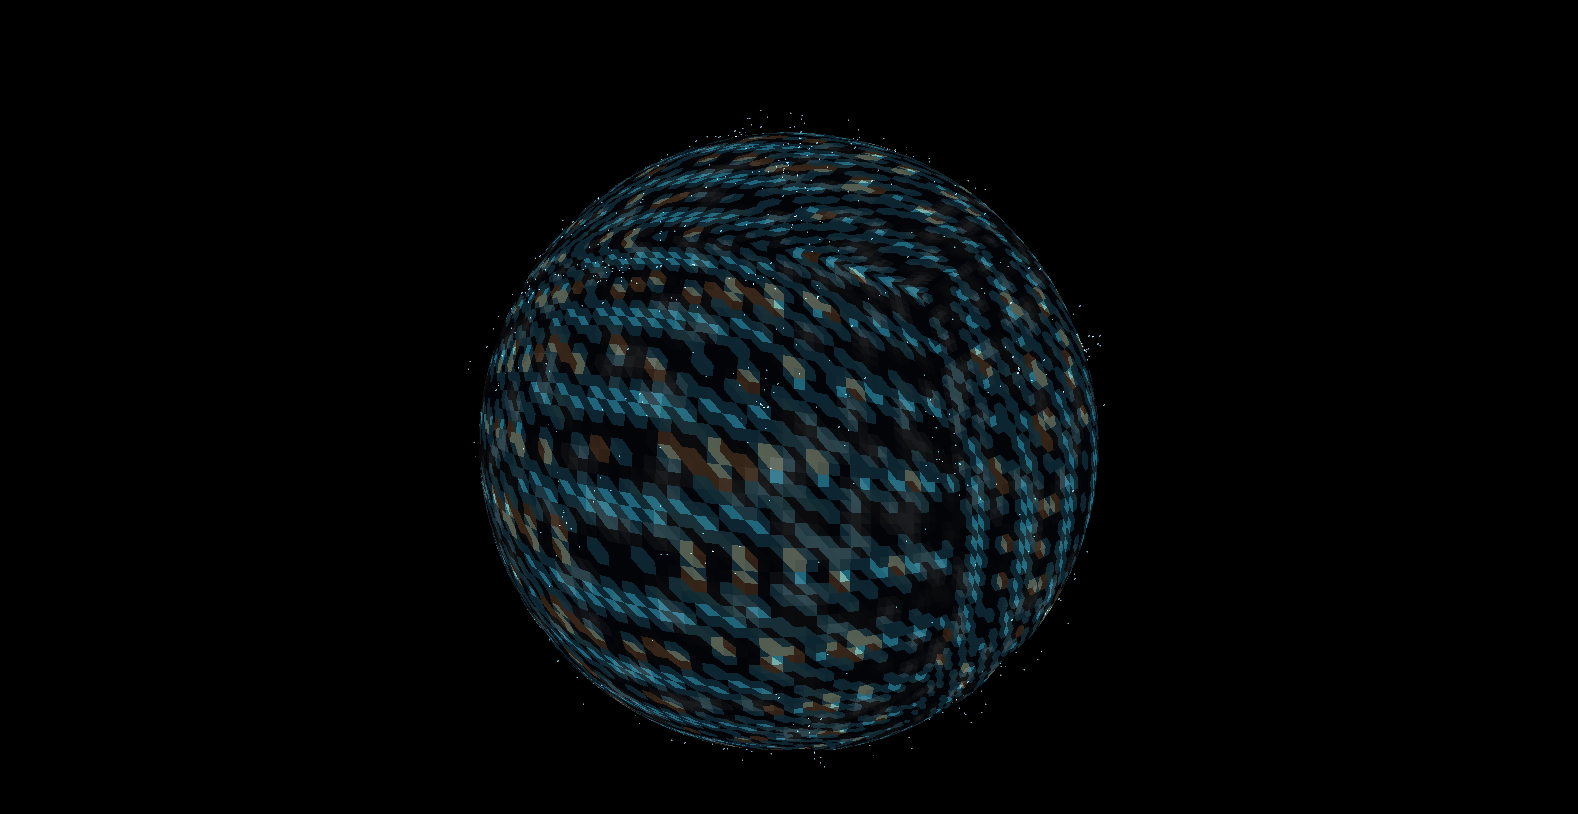
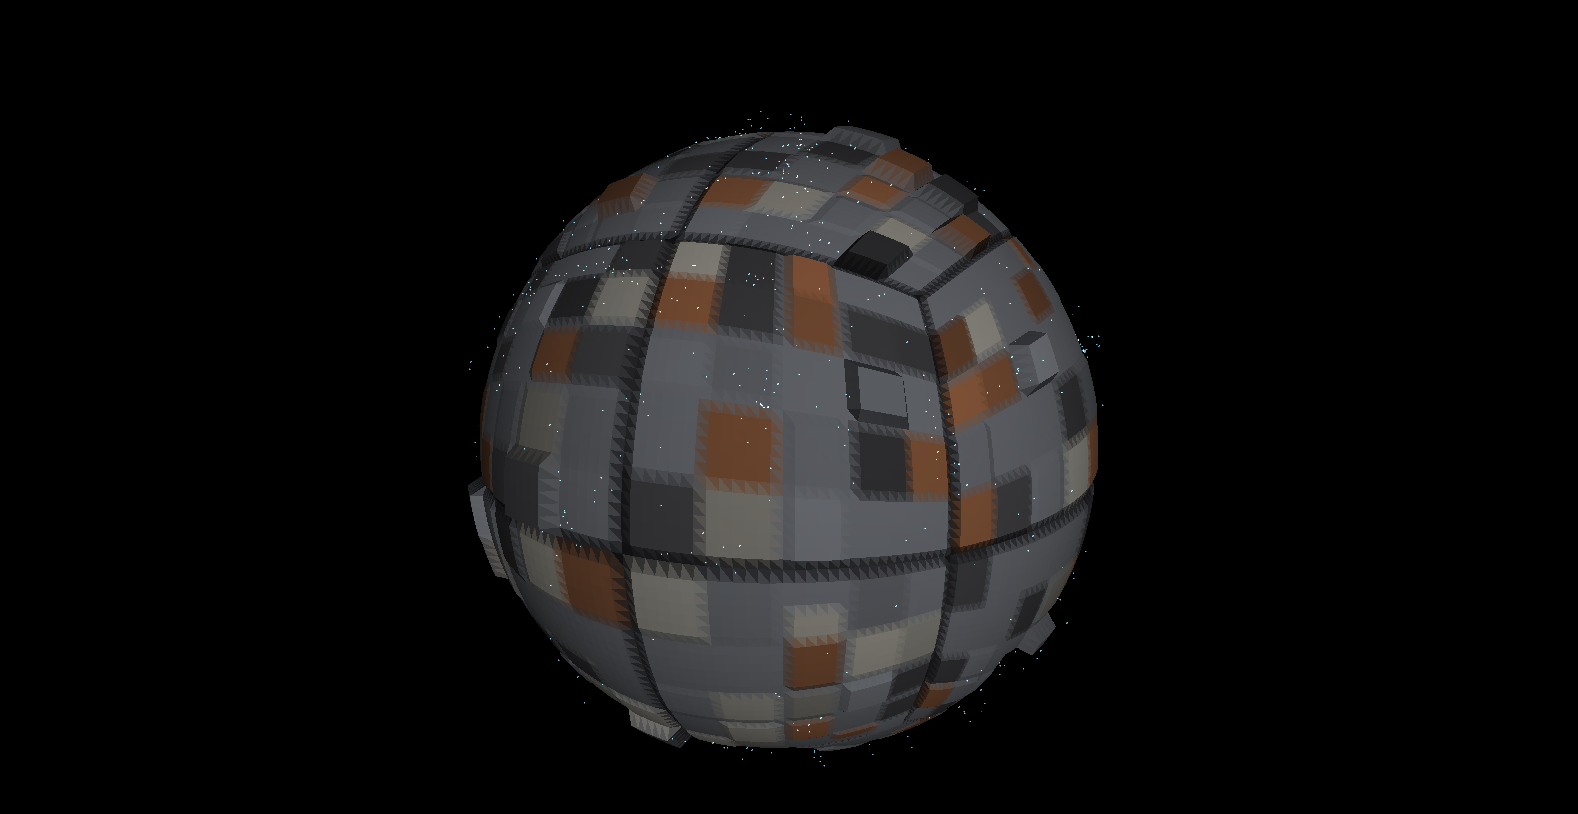
Dyson outside: industrial megastructure (sectors, trenches, machinery blocks, towers, pipe runs, steel/iron/rust), lit from outside, camera stays above the machinery

Changed region(s): [[0.2795, 0.1536, 0.7142, 0.9214]]

diff --git a/src/gen/PlanetTerrain.cs b/src/gen/PlanetTerrain.cs
@@ -626,6 +626,30 @@ namespace DnaAnd.Gen
             return Radius;
         }
 
+        /// <summary>How tall the hull's machinery stands (km above the bare hull) at a unit direction: the same shapes the hull is built from.</summary>
+        public double HullHeightAt(double x, double y, double z)
+        {
+            double ax2 = Math.Abs(x), ay2 = Math.Abs(y), az2 = Math.Abs(z), pu, pv;
+            if (ax2 >= ay2 && ax2 >= az2) { pu = y / ax2; pv = z / ax2; } else if (ay2 >= az2) { pu = x / ay2; pv = z / ay2; } else { pu = x / az2; pv = y / az2; }
+            long face = ax2 >= ay2 && ax2 >= az2 ? (x > 0 ? 1 : 2) : ay2 >= az2 ? (y > 0 ? 3 : 4) : (z > 0 ? 5 : 6);
+            double h = 0, bn = 5;
+            for (int sc = 0; sc < 6; sc++, bn *= 6)
+            {
+                double cu = pu * bn, cv = pv * bn;
+                long iu = (long)Math.Floor(cu), iv = (long)Math.Floor(cv);
+                double fu = cu - iu, fv = cv - iv, edge = Math.Min(Math.Min(fu, 1 - fu), Math.Min(fv, 1 - fv));
+                double width = Radius * 2 / bn;
+                float hsh = (float)Hash(iu, iv, face * 16 + sc, _seed + 8400u);
+                if (sc == 0 && edge < 0.015) { h -= width * 0.02; break; }
+                if (edge < 0.06 || hsh < 0.35) continue;
+                double tall = hsh * hsh * width * 0.035;
+                if (hsh > 0.93) tall *= 3;
+                if (hsh > 0.8 && hsh < 0.9) { double pf = Math.Abs(Math.Sin(fu * Math.PI * 6)); tall = pf > 0.6 ? width * 0.012 : 0; }
+                h += tall;
+            }
+            return h;
+        }
+
         /// <summary>Whether this part of a shell has been built (rings, part-built shells and mirror caps have gaps).</summary>
         private bool Built(double x, double y, double z, int level, double angle)
         {
@@ -663,27 +687,41 @@ namespace DnaAnd.Gen
                     {
                         // hull plates: a grid of panels with seams, some lit by docks and windows
                         h = 0; gl = HullGlow; al = 1;
-                        // high-tech armour: hexagon panels laid on the faces of a cube (no globe lines, no pinched poles),
-                        // each panel its own kind (dark collector glass, gunmetal, light armour), glowing seams, lit vents and docks
+                        // industrial megastructure: real built shapes, not a painted skin. Square sectors split by deep
+                        // trenches, filled with blocks of machinery at many sizes (each one taller the bigger it is), long
+                        // pipe runs and radiator ridges; steel, dark iron and rust, with only small warm work lights
                         double ax2 = Math.Abs(x), ay2 = Math.Abs(y), az2 = Math.Abs(z), pu, pv;
                         if (ax2 >= ay2 && ax2 >= az2) { pu = y / ax2; pv = z / ax2; } else if (ay2 >= az2) { pu = x / ay2; pv = z / ay2; } else { pu = x / az2; pv = y / az2; }
                         long face = ax2 >= ay2 && ax2 >= az2 ? (x > 0 ? 1 : 2) : ay2 >= az2 ? (y > 0 ? 3 : 4) : (z > 0 ? 5 : 6);
-                        long hi, hj; double he, hcen;
-                        Hex(pu * 14, pv * 14, out hi, out hj, out he, out hcen);                 // great panels
-                        long fi2, fj2; double fe, fc;
-                        Hex(pu * 420, pv * 420, out fi2, out fj2, out fe, out fc);               // plates inside each panel
-                        float cell = (float)Hash(hi, hj, face, _seed + 8200u), sub = (float)Hash(fi2, fj2, face, _seed + 8300u);
-                        int kind = cell < 0.55f ? 0 : cell < 0.85f ? 1 : 2;
-                        if (kind == 0) { r = 0.05f; g = 0.08f; bl = 0.16f; }              // collector glass, nearly black blue
-                        else if (kind == 1) { r = 0.2f; g = 0.21f; bl = 0.24f; }          // gunmetal
-                        else { r = 0.5f; g = 0.52f; bl = 0.56f; }                         // light armour
-                        float tone = 0.85f + 0.3f * sub; r *= tone; g *= tone; bl *= tone; gl = 0.2f;
-                        bool near = _makeLevel >= 10;
-                        if (near && fe < 0.06) { r *= 0.55f; g *= 0.55f; bl *= 0.55f; }                              // plate lines, up close
-                        double seamW = near ? 0.035 : 0.09;                                                         // seams drawn wider from far away
-                        if (he < seamW) { r = 0.25f; g = 0.85f; bl = 1f; gl = 0.9f; }                               // glowing seams between panels
-                        if (kind == 1 && hcen < 0.12) { r = 1f; g = 0.55f; bl = 0.15f; gl = 0.95f; }                 // a glowing vent at each gunmetal panel's heart
-                        if (near && sub > 0.985) { r = 1f; g = 0.85f; bl = 0.5f; gl = 0.95f; }                       // lit windows, ports and docks
+                        h = 0; gl = 0.12f;                                       // faint light from the rest of the galaxy, so the dark side still shows its shapes
+                        float tone = 1f; int metal = 0; bool trench = false;
+                        int scales = Math.Min(6, 1 + _makeLevel / 3);              // finer machinery appears as you come closer
+                        double bn = 5;
+                        for (int sc = 0; sc < scales; sc++, bn *= 6)
+                        {
+                            double cu = pu * bn, cv = pv * bn;
+                            long iu = (long)Math.Floor(cu), iv = (long)Math.Floor(cv);
+                            double fu = cu - iu, fv = cv - iv, edge = Math.Min(Math.Min(fu, 1 - fu), Math.Min(fv, 1 - fv));
+                            double width = Radius * 2 / bn;                          // km across one block at this size
+                            float hsh = (float)Hash(iu, iv, face * 16 + sc, _seed + 8400u);
+                            if (sc == 0 && edge < 0.015) { h -= width * 0.02; trench = true; break; }       // the deep trenches between sectors
+                            if (edge < 0.06) continue;                                                    // a street: no block here at this size
+                            if (hsh < 0.35) continue;                                                     // open deck
+                            double tall = hsh * hsh * width * 0.035;
+                            if (hsh > 0.93) tall *= 3;                                                    // a tower
+                            bool pipe = hsh > 0.8 && hsh < 0.9;                                           // pipe runs: long ridges along one side
+                            if (pipe) { double pf = Math.Abs(Math.Sin(fu * Math.PI * 6)); tall = pf > 0.6 ? width * 0.012 : 0; }
+                            h += tall;
+                            if (tall > 0) { metal = (int)(hsh * 997) % 4; tone = 0.8f + 0.4f * (float)Hash(iu, iv, sc, _seed + 8500u); }
+                        }
+                        if (metal == 0) { r = 0.36f; g = 0.37f; bl = 0.39f; }        // steel
+                        else if (metal == 1) { r = 0.2f; g = 0.2f; bl = 0.21f; }     // dark iron
+                        else if (metal == 2) { r = 0.42f; g = 0.27f; bl = 0.18f; }   // rust
+                        else { r = 0.5f; g = 0.49f; bl = 0.46f; }                    // weathered plate
+                        r *= tone; g *= tone; bl *= tone;
+                        if (trench) { r = 0.08f; g = 0.08f; bl = 0.09f; }
+                        // small warm work lights, only close enough to see them
+                        if (_makeLevel >= 12 && Hash((long)Math.Floor(pu * 40000), (long)Math.Floor(pv * 40000), face, _seed + 8600u) > 0.992) { r = 1f; g = 0.78f; bl = 0.45f; gl = 0.8f; }
                     }
                     else if (layer == Ground) h = Height(x, y, z, layers, out r, out g, out bl, out gl);
                     else if (layer == Water)
@@ -869,7 +907,7 @@ namespace DnaAnd.Gen
                 Mat4 vp = Mat4.Translation(ox, oy, oz) * rest;
                 var c = Pack(vp);
                 c[16] = lx; c[17] = ly; c[18] = lz;
-                if (Shell)
+                if (Shell && !_drawingHull)
                 {
                     // inside a shell the star is at the centre: light comes from the centre toward each piece
                     double pl = Math.Sqrt(p.Cx * p.Cx + p.Cy * p.Cy + p.Cz * p.Cz);

diff --git a/src/shell/PlanetView.cs b/src/shell/PlanetView.cs
@@ -283,7 +283,7 @@ namespace DnaAnd.Shell
             double R = _terrain.Radius;
             double ux = Math.Cos(_lat) * Math.Cos(_lon), uy = Math.Sin(_lat), uz = Math.Cos(_lat) * Math.Sin(_lon);
             // the camera always sits on top of the solid ground (the sea floor under water): it lands, it never sinks in
-            double ground = _terrain.Shell ? (_inside ? _terrain.GroundAt(ux, uy, uz) : _terrain.HullKm) : _terrain.GroundAt(ux, uy, uz);
+            double ground = _terrain.Shell ? (_inside ? _terrain.GroundAt(ux, uy, uz) : _terrain.HullKm + Math.Max(0, _terrain.HullHeightAt(ux, uy, uz))) : _terrain.GroundAt(ux, uy, uz);
             _fieldHere = _terrain.Solid ? _terrain.LastField : -1;
             // land on finished ground: while finer ground is still being made, stay a few of its steps above it
             if (_terrain.ReadyStep < double.MaxValue) _shown = Math.Max(_alt, _terrain.ReadyStep * 3); else _shown = _alt;

diff --git a/docs/DESIGN.md b/docs/DESIGN.md
@@ -662,3 +662,4 @@ Everything the creator has said about this project, in order. Short process repl
 93. "nope its just stuck spinning like a shit head i never said auto move and i cant zoom to the inner shell surface of the dyso psheree to zoom up on water and lanfroms and later the animals and stuff and microbves". The view from the middle no longer turns by itself; only dragging turns it. The wheel there flies down onto the inner surface and keeps going. Inside, each wheel notch goes down further.
 94. "left is not moving left its rotating it and forward is not proppelry zooming in if i move in a straight line id eventual run into the surface or water or even sidesteping would do this". Inside the sphere the camera flies freely. W and S fly in a straight line along where you look, A and D step sideways, dragging looks around, and the wheel flies forward and back. Speed grows with height, and you stop at the surface.
 95. "okay that looks good we just need the out side to look more high tech and less like a at&t logo. and when i zommed all all the way in to the ground as close as i could get, i got stuck in the ground and couldnt back back up(but that can be solved when we do micorscopic)". The inside is approved. The outside is now high-tech armour: hexagon panels on cube faces (no globe lines), collector glass, gunmetal and light armour, glowing seams, lit vents and docks. Getting stuck at the deepest zoom inside waits for the microscopic set.
+96. "no hex grid shit fucker and i mean like industiral technologoly and shit not a blanked skin thats neon alien shit". The hull is an industrial megastructure with real built shapes: square sectors split by deep trenches, machinery blocks at many sizes, towers, pipe runs, and steel, dark iron and rust. It has small warm work lights only, no hex grid and no neon.
